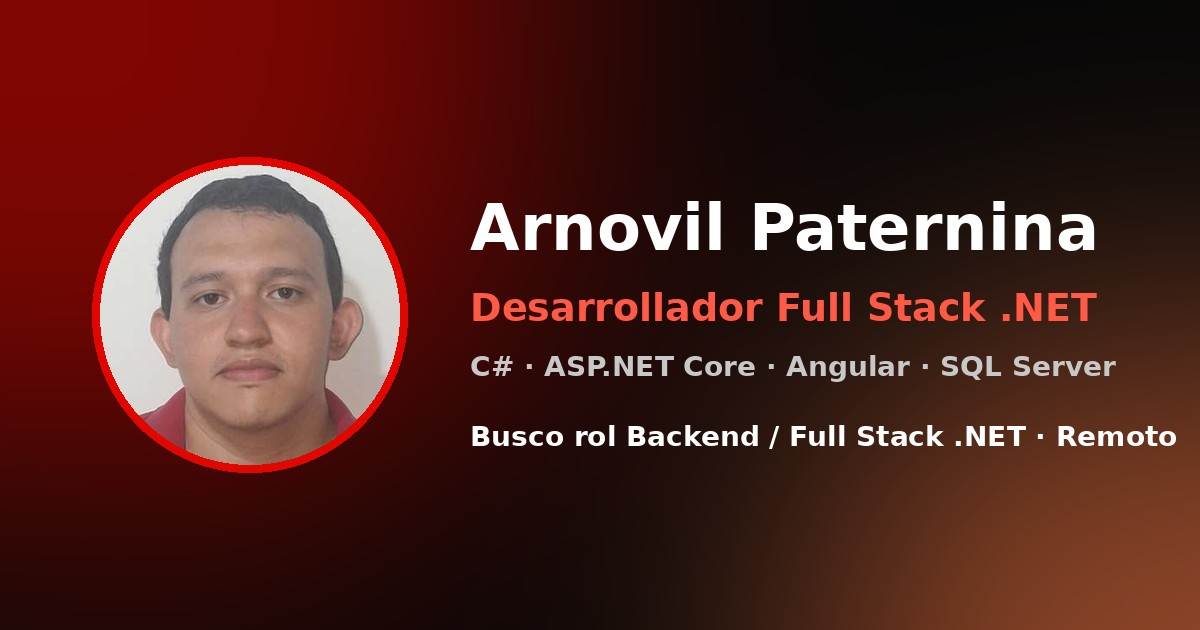
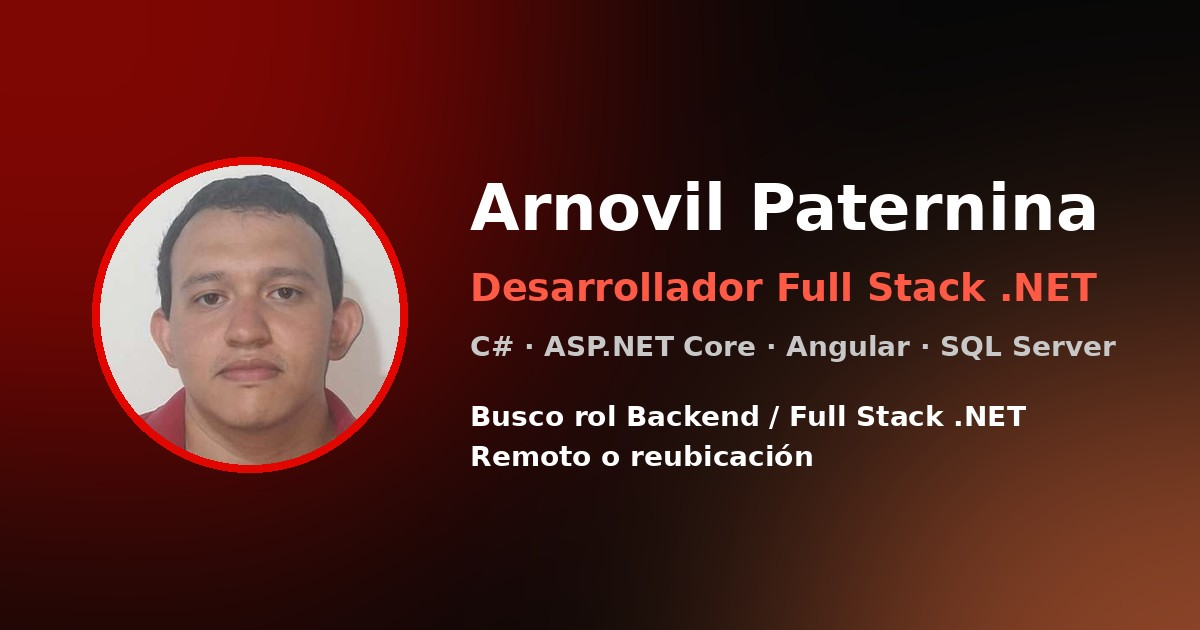
Ajustes

Changed region(s): [[0.37, 0.2714, 0.925, 0.6032], [0.37, 0.6333, 0.9867, 0.754]]

diff --git a/src/app/data/cv.data.ts b/src/app/data/cv.data.ts
@@ -17,7 +17,7 @@ export const CV = {
     { icon: '💻', title: 'Lenguajes', items: ['C#', 'TypeScript', 'JavaScript', 'HTML5', 'CSS3'] },
     { icon: '⚙', title: 'Backend', items: ['.NET', 'ASP.NET Core', 'Web API', 'Minimal APIs', 'REST', 'EF Core'] },
     { icon: '🎨', title: 'Frontend', items: ['Angular', 'Componentes', 'Servicios', 'DI', 'Routing', 'Formularios', 'RxJS'] },
-    { icon: '🏗', title: 'Arquitectura', items: ['Capas', 'SOLID', 'Clean Architecture', 'CQRS'] },
+    { icon: '🏗', title: 'Arquitectura', items: ['Capas', 'SOLID', 'Clean Architecture', 'DDD', 'CQRS'] },
     { icon: '🔐', title: 'Seguridad', items: ['JWT', 'ASP.NET Core Identity', 'Autenticación', 'Autorización', 'Refresh Tokens'] },
     { icon: '🗄', title: 'Bases de datos', items: ['SQL Server', 'Azure SQL', 'SQL', 'EF Core', 'Dapper', 'LINQ', 'Migraciones'] },
     { icon: '🔗', title: 'Integración', items: ['SignalR', 'RabbitMQ', 'Firebase FCM', 'SAP'] },
@@ -51,7 +51,7 @@ export const CV = {
     { icon: "🔐", title: "Autenticación y autorización", text: "JWT, ASP.NET Core Identity y refresh tokens para proteger los endpoints y controlar el acceso." },
     { icon: "🔌", title: "Integración de APIs externas", text: "Consumo y sincronización de servicios externos dentro de los flujos de la aplicación." },
     { icon: "🗄", title: "SQL y modelado relacional", text: "SQL Server y Azure SQL con EF Core, Dapper, LINQ y migraciones." },
-    { icon: "🏗", title: "Arquitectura por capas y Clean Architecture", text: "Separación de responsabilidades con SOLID, Controller → Service → Repository y CQRS con MediatR." },
+    { icon: "🏗", title: "Arquitectura por capas, Clean Architecture y DDD", text: "Separación de responsabilidades con SOLID, diseño guiado por el dominio (DDD), Controller → Service → Repository y CQRS con MediatR." },
     { icon: "🅰", title: "Desarrollo de aplicaciones Angular", text: "Componentes, servicios, routing, formularios y RxJS conectados a APIs REST." },
     { icon: "🐳", title: "Dockerización", text: "Empaquetado de aplicaciones en contenedores Docker para entornos consistentes." },
     { icon: "☁", title: "Despliegue en Azure", text: "Publicación en Azure App Service con configuración de entornos y conexión a Azure SQL Database." },

diff --git a/src/index.html b/src/index.html
@@ -5,18 +5,17 @@
   <title>Arnovil Paternina · Desarrollador Full Stack .NET</title>
   <base href="/">
   <meta name="viewport" content="width=device-width, initial-scale=1">
-  <meta name="description" content="Desarrollador Full Stack .NET en Santa Marta, Colombia. APIs REST seguras, ASP.NET Core, Angular, SQL Server, Azure y Docker. Busco rol Backend / Full Stack .NET remoto.">
+  <meta name="description" content="Desarrollador Full Stack .NET en Santa Marta, Colombia. APIs REST seguras, ASP.NET Core, Angular, SQL Server, Azure y Docker. Busco rol Backend / Full Stack .NET, remoto o con reubicación.">
   <meta property="og:type" content="website">
   <meta property="og:title" content="Arnovil Paternina · Desarrollador Full Stack .NET">
-  <meta property="og:description" content="Desarrollador Full Stack .NET en Santa Marta, Colombia. APIs REST seguras, ASP.NET Core, Angular, SQL Server, Azure y Docker. Busco rol Backend / Full Stack .NET remoto.">
-  <!-- CAMBIA TU-DOMINIO por la URL donde publiques la pagina (debe ser absoluta) -->
+  <meta property="og:description" content="Desarrollador Full Stack .NET en Santa Marta, Colombia. APIs REST seguras, ASP.NET Core, Angular, SQL Server, Azure y Docker. Busco rol Backend / Full Stack .NET, remoto o con reubicación.">
+  <!-- CAMBIA arnovil-dev.netlify.app por la URL donde publiques la pagina (debe ser absoluta) -->
   <meta property="og:url" content="https://arnovil-dev.netlify.app/">
-<meta property="og:image" content="https://arnovil-dev.netlify.app/og.jpg">
+  <meta property="og:image" content="https://arnovil-dev.netlify.app/og.jpg">
   <meta name="twitter:card" content="summary_large_image">
-    <link rel="icon" type="image/x-icon" href="favicon.ico">
-   <link rel="icon" type="image/png" sizes="32x32" href="favicon-32.png">
-   <link rel="apple-touch-icon" href="apple-touch-icon.png">
-
+  <link rel="icon" type="image/x-icon" href="favicon.ico">
+  <link rel="icon" type="image/png" sizes="32x32" href="favicon-32.png">
+  <link rel="apple-touch-icon" href="apple-touch-icon.png">
   <link href="https://fonts.googleapis.com/css2?family=Inter:wght@400;600;800&display=swap" rel="stylesheet">
 </head>
 <body>

diff --git a/src/app/components/intro-banner/intro-banner.component.html b/src/app/components/intro-banner/intro-banner.component.html
@@ -1,13 +1,12 @@
 <header id="inicio">
   <div class="blob b1"></div><div class="blob b2"></div>
   <div class="content">
-    <div class="pillbox"><span class="avail"><i></i>Disponible · Busco rol Backend / Full Stack .NET · Remoto</span></div>
     <img class="avatar" src="foto.jpg" alt="Foto de Arnovil Paternina">
     <span class="avail"><i></i>Disponible para trabajo remoto o reubicación</span>
     <p class="hi">👋 Hola, soy</p>
     <h1 class="grad">{{ cv.name }}</h1>
-    <h3 [class.out]="out">{{ cv.roles[i] }}<span class="cur">|</span></h3>
-    <p class="seek">🎯 Busco rol <b>Backend / Full Stack .NET</b> · Remoto</p>
+    <h3 [class.out]="fading()">{{ cv.roles[roleIndex()] }}</h3>
+    <p class="seek">🎯 Busco rol <b>Backend / Full Stack .NET</b> · Remoto o reubicación</p>
     <p class="loc">📍 {{ cv.city }}</p>
     <div class="soc">
       <a [href]="cv.github" target="_blank" rel="noopener" aria-label="GitHub"><svg viewBox="0 0 24 24" fill="currentColor"><path d="M12 .297c-6.63 0-12 5.373-12 12 0 5.303 3.438 9.8 8.205 11.385.6.113.82-.258.82-.577 0-.285-.01-1.04-.015-2.04-3.338.724-4.042-1.61-4.042-1.61C4.422 18.07 3.633 17.7 3.633 17.7c-1.087-.744.084-.729.084-.729 1.205.084 1.838 1.236 1.838 1.236 1.07 1.835 2.809 1.305 3.495.998.108-.776.417-1.305.76-1.605-2.665-.3-5.466-1.332-5.466-5.93 0-1.31.465-2.38 1.235-3.22-.135-.303-.54-1.523.105-3.176 0 0 1.005-.322 3.3 1.23.96-.267 1.98-.399 3-.405 1.02.006 2.04.138 3 .405 2.28-1.552 3.285-1.23 3.285-1.23.645 1.653.24 2.873.12 3.176.765.84 1.23 1.91 1.23 3.22 0 4.61-2.805 5.625-5.475 5.92.42.36.81 1.096.81 2.22 0 1.606-.015 2.896-.015 3.286 0 .315.21.69.825.57C20.565 22.092 24 17.592 24 12.297c0-6.627-5.373-12-12-12"/></svg></a>
@@ -18,7 +17,7 @@
     <div class="btns">
       <a class="btn" href="#projects">Ver proyectos</a>
       <a class="btn ghost" href="#contact">Contáctame</a>
-      <a class="btn ghost" href="CV_Arnovil_Paternina_Desarrollador_Net.pdf" download="CV_Arnovil_Paternina_Desarrollador_Net.pdf">⬇ Descargar CV</a>
+      <a class="btn ghost" href="cv.pdf" download="CV-Arnovil-Paternina.pdf">⬇ Descargar CV</a>
     </div>
   </div>
 </header>

diff --git a/src/app/components/top-bar/top-bar.component.ts b/src/app/components/top-bar/top-bar.component.ts
@@ -1,4 +1,4 @@
-import { Component, HostListener, OnInit } from '@angular/core';
+import { Component, HostListener, OnInit, signal } from '@angular/core';
 
 @Component({
   selector: 'ap-top-bar',
@@ -7,9 +7,9 @@ import { Component, HostListener, OnInit } from '@angular/core';
   styleUrl: './top-bar.component.css',
 })
 export class TopBarComponent implements OnInit {
-  scrolled = false;
-  progress = 0;
-  dark = true;
+  scrolled = signal(false);
+  progress = signal(0);
+  dark = signal(true);
 
   links = [
     ['about', 'Sobre mí'],
@@ -23,27 +23,27 @@ export class TopBarComponent implements OnInit {
 
   ngOnInit() {
     try {
-      this.dark = localStorage.getItem('theme') !== 'light';
+      this.dark.set(localStorage.getItem('theme') !== 'light');
     } catch {}
     this.apply();
   }
 
   toggle() {
-    this.dark = !this.dark;
+    this.dark.update((value) => !value);
     this.apply();
     try {
-      localStorage.setItem('theme', this.dark ? 'dark' : 'light');
+      localStorage.setItem('theme', this.dark() ? 'dark' : 'light');
     } catch {}
   }
 
   private apply() {
-    document.documentElement.setAttribute('data-theme', this.dark ? 'dark' : 'light');
+    document.documentElement.setAttribute('data-theme', this.dark() ? 'dark' : 'light');
   }
 
   @HostListener('window:scroll')
   onScroll() {
     const h = document.documentElement;
-    this.scrolled = h.scrollTop > 60;
-    this.progress = (h.scrollTop / (h.scrollHeight - h.clientHeight)) * 100;
+    this.scrolled.set(h.scrollTop > 60);
+    this.progress.set((h.scrollTop / (h.scrollHeight - h.clientHeight)) * 100);
   }
 }

diff --git a/src/app/components/intro-banner/intro-banner.component.ts b/src/app/components/intro-banner/intro-banner.component.ts
@@ -1,4 +1,4 @@
-import { Component, OnDestroy, OnInit } from '@angular/core';
+import { Component, OnDestroy, OnInit, signal } from '@angular/core';
 import { CV } from '../../data/cv.data';
 import { copyMail } from '../../utils/mail';
 
@@ -10,8 +10,8 @@ import { copyMail } from '../../utils/mail';
 })
 export class IntroBannerComponent implements OnInit, OnDestroy {
   cv = CV;
-  i = 0;
-  out = false;
+  roleIndex = signal(0);
+  fading = signal(false);
   private timer?: any;
 
   mail(e: Event) {
@@ -21,13 +21,14 @@ export class IntroBannerComponent implements OnInit, OnDestroy {
 
   ngOnInit() {
     this.timer = setInterval(() => {
-      this.out = true;
+      this.fading.set(true);
       setTimeout(() => {
-        this.i = (this.i + 1) % this.cv.roles.length;
-        this.out = false;
+        this.roleIndex.update((i) => (i + 1) % this.cv.roles.length);
+        this.fading.set(false);
       }, 400);
     }, 2800);
   }
+
   ngOnDestroy() {
     clearInterval(this.timer);
   }

diff --git a/src/app/components/top-bar/top-bar.component.html b/src/app/components/top-bar/top-bar.component.html
@@ -1,8 +1,8 @@
-<nav [class.solid]="scrolled">
+<nav [class.solid]="scrolled()">
   <b class="grad">AP</b>
   <div>
     @for (l of links; track l[0]) { <a [href]="'#' + l[0]">{{ l[1] }}</a> }
-    <button class="theme" (click)="toggle()" aria-label="Cambiar tema">{{ dark ? '☀' : '🌙' }}</button>
+    <button class="theme" (click)="toggle()" aria-label="Cambiar tema">{{ dark() ? '☀' : '🌙' }}</button>
   </div>
 </nav>
-<div class="progress" [style.width.%]="progress"></div>
+<div class="progress" [style.width.%]="progress()"></div>

diff --git a/src/app/components/intro-banner/intro-banner.component.css b/src/app/components/intro-banner/intro-banner.component.css
@@ -44,10 +44,6 @@ header {
   z-index: 1;
 }
 
-.pillbox {
-  margin-bottom: 22px;
-}
-
 .avail {
   display: inline-flex;
   align-items: center;
@@ -149,17 +145,6 @@ h3 {
 h3.out {
   opacity: 0;
   transform: translateY(8px);
-}
-
-.cur {
-  color: var(--b);
-  animation: blink 1s infinite;
-}
-
-@keyframes blink {
-  50% {
-    opacity: 0;
-  }
 }
 
 .loc {
